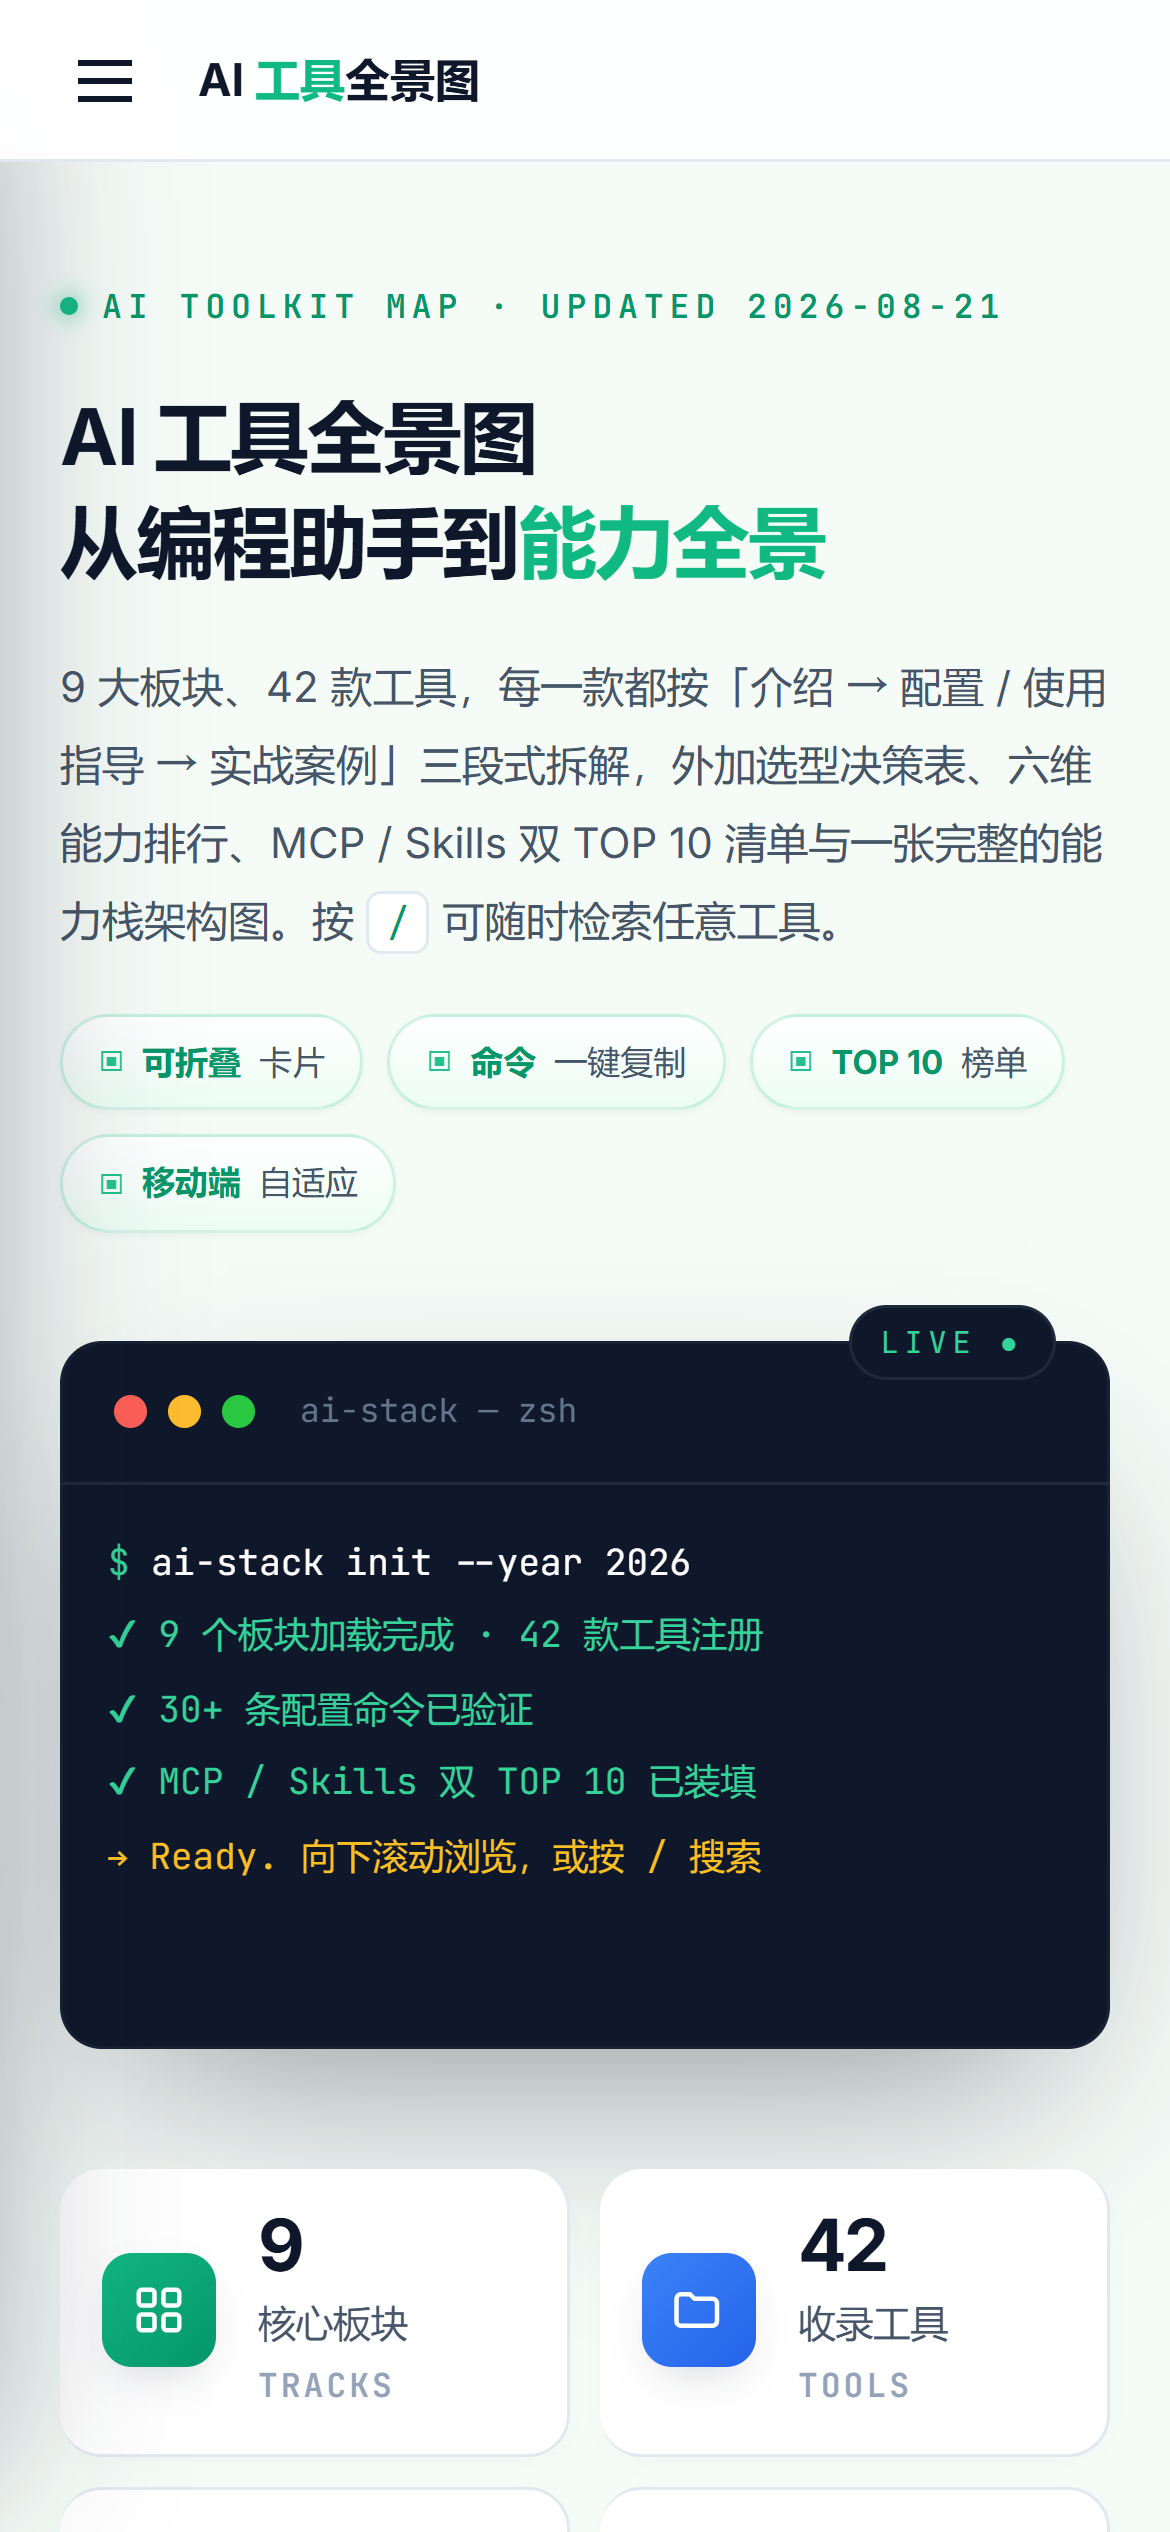
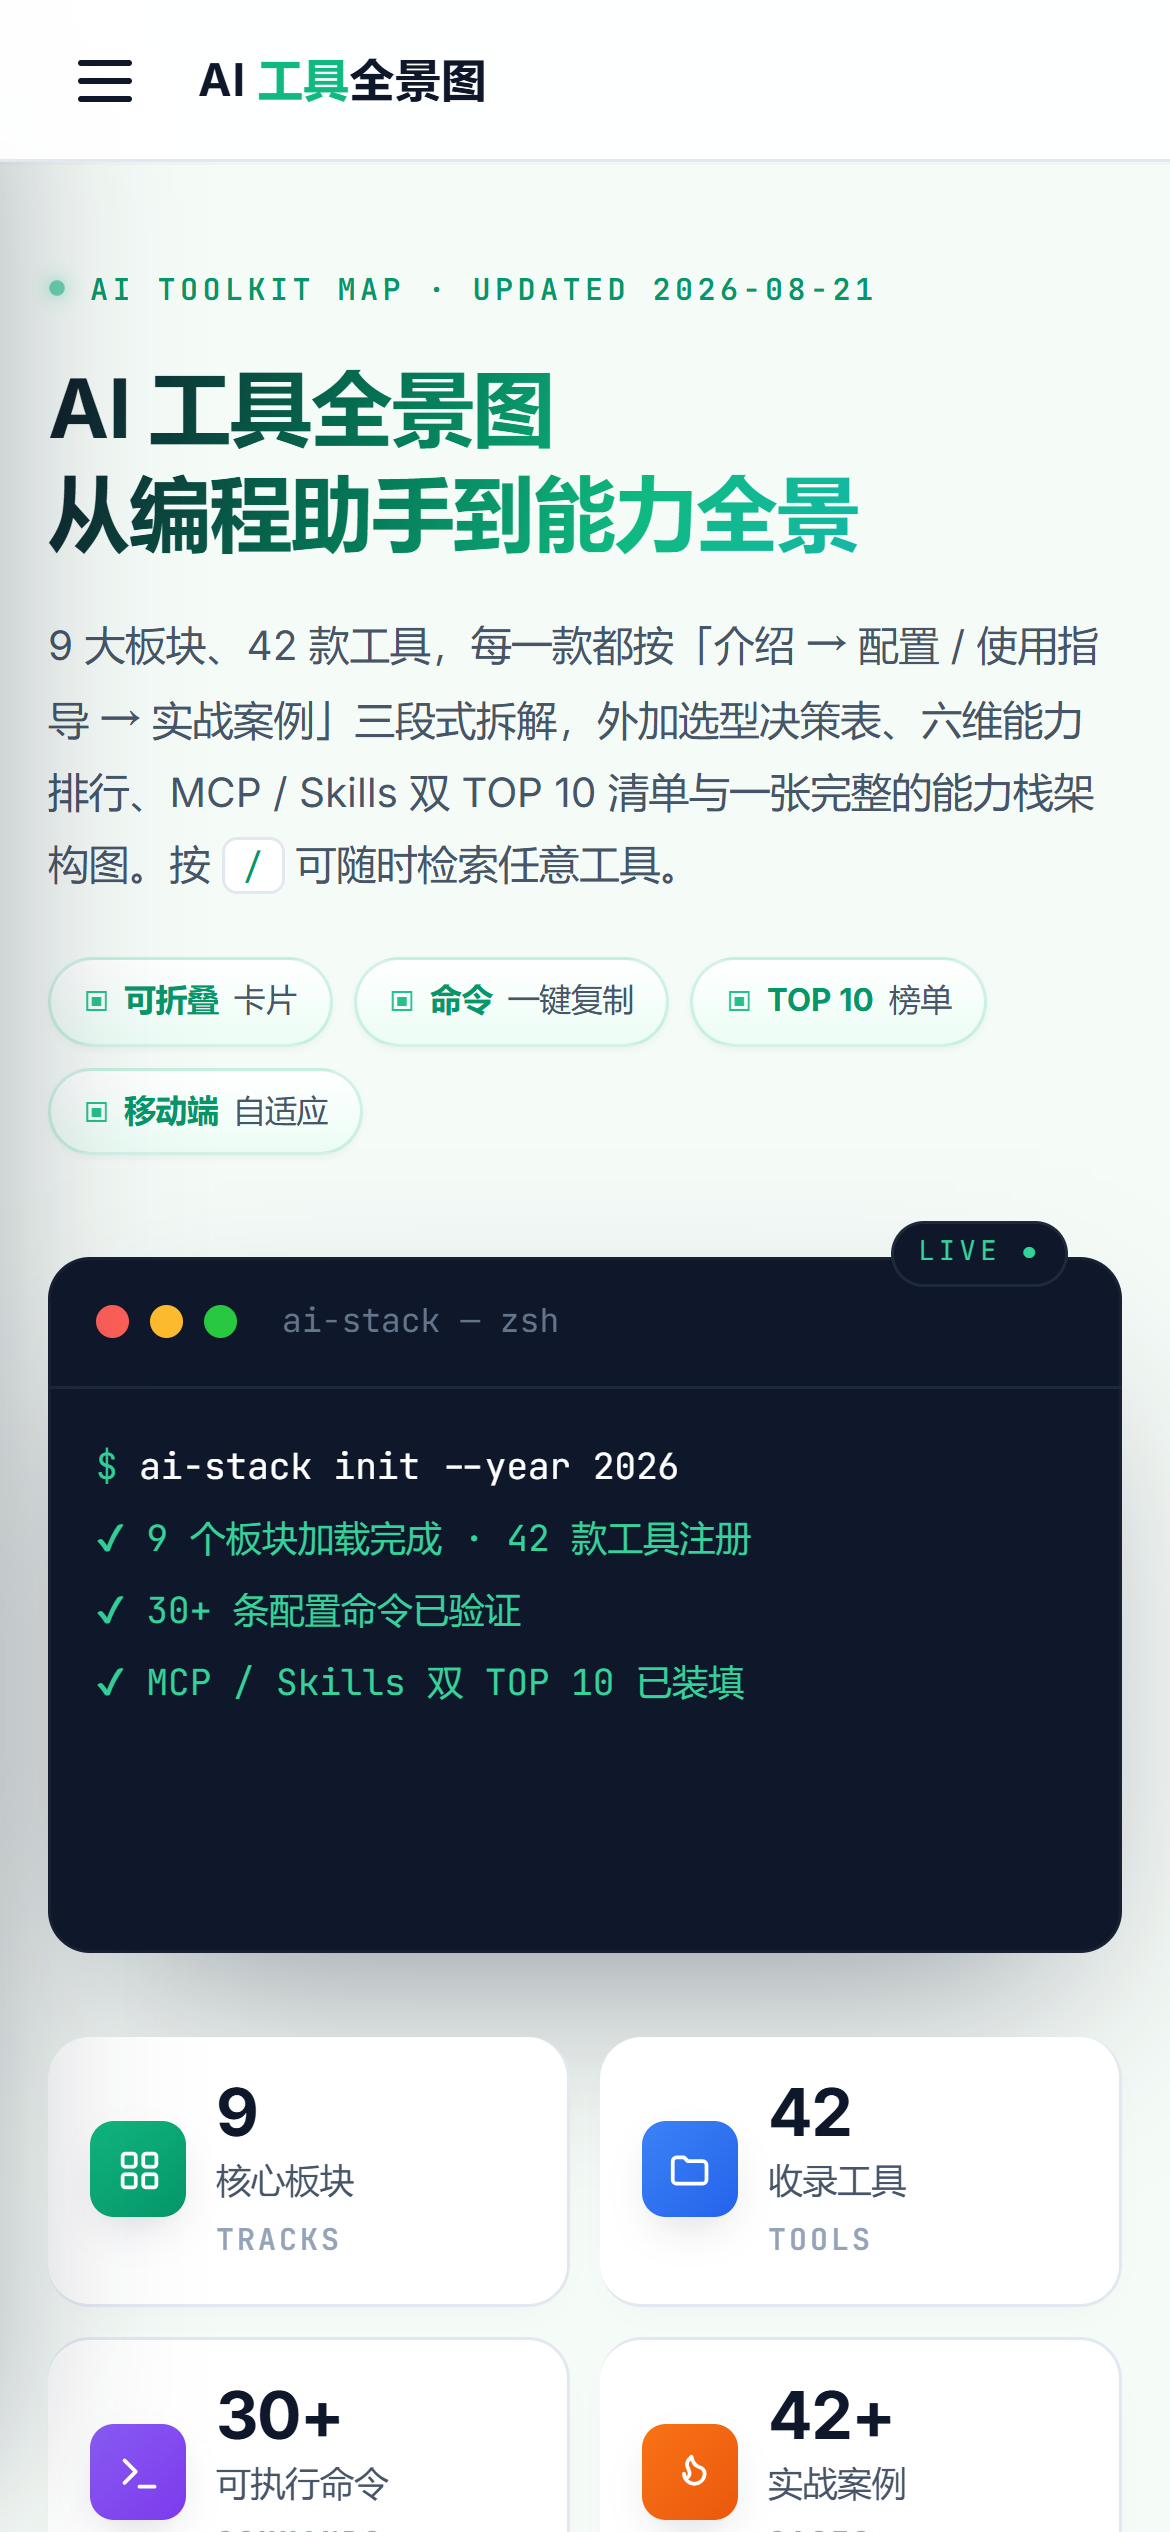
鏇存柊 README锛岃ˉ鍏?imgs 鎴浘骞朵慨姝ｆ澘鍧椾笌宸ュ叿缁熻

Changed region(s): [[0.0308, 0.0936, 0.9846, 1.0], [0.3385, 0.0, 0.4, 0.0624], [0.3077, 0.0, 0.3385, 0.0312]]

diff --git a/README.md b/README.md
@@ -1,21 +1,41 @@
 # AI 工具全景图 · AI TOOLKIT MAP
 
-从编程助手到能力全景 —— 一张覆盖 **8 大板块、30+ 款 AI 工具** 的交互式全景地图。每款工具都按「介绍 → 配置 / 使用指导 → 实战案例」三段式拆解，并附带选型决策表、六维能力排行、MCP / Skills 双 TOP 10 清单与完整的能力栈架构图。
+> **9 大板块 · 42 款 AI 工具** —— 一张从编程助手到能力栈架构的交互式全景地图。
+> 每款工具按「**介绍 → 配置 / 使用指导 → 实战案例**」三段式拆解，并附带选型决策表、六维能力排行、MCP / Skills 双 TOP 10 清单与完整的能力栈架构图。
 
-纯前端单页应用，无需构建、无需后端，双击即可打开。
+纯前端单页应用，**无需构建、无需后端**，双击 `index.html` 即可打开。
+
+![Hero · 桌面端](imgs/pc-01-hero.png)
+
+---
+
+## 界面预览
+
+### 桌面端
+
+| 首屏（Hero + 统计） | 板块 · 智能体框架 | 板块 · 图像生成（含决策表） |
+| --- | --- | --- |
+| ![PC Hero](imgs/pc-01-hero.png) | ![PC Office](imgs/pc-03-office.png) | ![PC Table](imgs/pc-04-table.png) |
+
+### 移动端
+
+| 首屏（带顶栏 + 终端面板） | 板块 · 编程助手 | 表格 · 编程助手横评 |
+| --- | --- | --- |
+| ![Mobile Hero](imgs/mob-01-hero.png) | ![Mobile Coding](imgs/mob-02-coding.png) | ![Mobile Table](imgs/mob-03-table.png) |
 
 ---
 
 ## 功能特性
 
-- 🗂 **8 大板块导航**：编程助手、办公智能体、智能体框架、图像生成、视频生成、语音处理、主流大模型、插件与生态。
-- 📖 **三段式卡片**：每款工具均含「介绍 / 配置指导 / 实战案例」，可折叠展开。
-- 🖥 **命令一键复制**：代码块与 MCP / Skills 命令点击即可复制，带复制成功反馈。
-- 🔍 **实时搜索**：按 `/` 聚焦搜索框，实时过滤工具卡片（支持工具名、命令、场景等关键词）。
-- 📊 **数据可视化**：板块级「全部展开 / 全部折叠」、数字滚动统计、六维能力排行榜、MCP / Skills 双 TOP 10。
+- 🗂 **9 大板块导航**：编程助手、办公智能体、智能体框架、图像生成、视频生成、语音处理、主流大模型、插件与生态、线上大模型服务平台。
+- 📖 **三段式卡片**：每款工具均含「**介绍 / 配置指导 / 实战案例**」，可点击展开 / 折叠。
+- 🖥 **命令一键复制**：代码块与 MCP / Skills 命令点击即可复制，带成功反馈。
+- 🔍 **实时搜索**：按 `/` 聚焦搜索框，实时过滤工具卡片（支持工具名、命令、场景等关键词），并自动展开匹配项。
+- 📊 **数据可视化**：板块级「全部展开 / 全部折叠」、数字滚动统计（9 / 42 / 30+ / 42+）、六维能力排行榜、MCP / Skills 双 TOP 10。
 - 🏗 **能力栈架构图**：L0 基础设施 → L1 模型层 → L2 协议与技能 → L3 智能体层 → L4 应用层，一览 AI 技术栈全景。
-- 📱 **移动端自适应**：响应式布局，移动端侧边栏抽屉导航。
-- 🌗 **动效与无障碍**：滚动渐入动画、阅读进度条、返回顶部按钮，支持 `prefers-reduced-motion` 减弱动画。
+- 🌗 **深色模式**：侧边栏一键切换，跟随系统主题，记忆用户偏好。
+- 📱 **移动端自适应**：响应式布局，移动端顶栏汉堡菜单 + 抽屉式侧边栏 + 右下角「返回顶部」按钮。
+- ♿ **无障碍与减弱动效**：滚动渐入、阅读进度条、`prefers-reduced-motion` 减弱动画支持。
 
 ---
 
@@ -27,15 +47,71 @@
 # 方式一：直接双击打开
 index.html
 
-# 方式二：本地静态服务器（推荐，避免浏览器安全限制）
+# 方式二：本地静态服务器（推荐，避免浏览器安全限制 / file:// 跨域）
 python -m http.server 8080
 # 然后访问 http://localhost:8080
 ```
 
 ### 技术栈
 
-- 纯原生 HTML / CSS / JavaScript，无任何外部依赖（仅 Google Fonts 字体）。
-- 数据驱动渲染：所有工具数据集中在 `<script type="application/json">` 的 `yb-data` 节点中，便于维护与二次开发。
+- 纯原生 **HTML / CSS / JavaScript**，无任何外部依赖（仅 Google Fonts）。
+- **数据驱动渲染**：所有工具数据集中在 `aihot_data.json` 中，由 `index.html` 启动时按需加载，便于维护与二次开发。
+
+---
+
+## 9 大板块速览
+
+| # | 板块 | 主题标签 | 亮点 |
+| - | --- | --- | --- |
+| 01 💻 | 编程助手 | 核心板块 | Claude Code / Cursor / Codex / Kimi K2 / Trae / Windsurf / OpenCode / CodeBuddy · 八款编程助手横向速览表 |
+| 02 🏢 | 办公智能体 | 部署指南 | WorkBuddy / Coze / Dify · 选型建议决策表 |
+| 03 🤖 | 智能体框架 | 对比选型 | OpenClaw vs Hermes · 六维对比表 + 适用场景结论 |
+| 04 🎨 | 图像生成 | 决策参考 | Midjourney / Flux / DALL-E / Ideogram / Firefly / SD · 按需求选模型决策单 |
+| 05 🎬 | 视频生成 | 参数速览 | Sora / 可灵 / Veo / Runway / 即梦 / Vidu·Pika·Luma · 参数速览表 |
+| 06 🔊 | 语音处理 | 横评推荐 | ElevenLabs / Cartesia / Hume / 火山 / CosyVoice / F5 / GPT-SoVITS / ChatTTS · 八款横评 + 组合推荐 |
+| 07 🧠 | 主流大模型 | 六维排行 | GPT-5 / Claude 4 / Gemini / Qwen 3 / DeepSeek V4 / Kimi K2 / Llama 4 · 六维能力排行榜 |
+| 08 🔌 | 插件与生态 | 生态必装 | MCP 协议 / Skills 技能 / 六大市场对比 · MCP & Skills 双 TOP 10 |
+| 09 🌐 | 线上大模型服务平台 | 平台速查 | 主流大模型 API 服务平台横向速查 |
+
+---
+
+## 顶部统计
+
+首屏实时滚动的四组数字（来自数据自动统计）：
+
+| 核心板块 | 收录工具 | 可执行命令 | 实战案例 |
+| --- | --- | --- | --- |
+| **9** | **42** | **30+** | **42+** |
+| TRACKS | TOOLS | COMMANDS | CASES |
+
+> 旁边的小型终端会以打字机效果输出 `ai-stack init --year 2026` 的初始化日志。
+
+---
+
+## 使用说明
+
+### 快捷键
+
+| 按键 | 功能 |
+| --- | --- |
+| `/` | 聚焦搜索框（移动端会同步打开侧边栏） |
+| `Esc` | 清空搜索并退出输入 |
+
+### 搜索
+
+在侧边栏搜索框输入关键词，即可实时过滤匹配的工具卡片，并显示「▸ N 个匹配结果」。支持搜索工具名称、命令、场景等任意文本；命中时卡片会自动展开。
+
+### 全部展开 / 折叠
+
+每个板块头部右上角提供「**全部展开**」「**全部折叠**」两个按钮，可一键展开或收起该板块内所有工具卡片，便于快速浏览或深度阅读。
+
+### 复制命令
+
+代码块右上角的「复制」按钮、MCP / Skills TOP 10 列表中的命令均可点击复制，按钮会短暂显示「✓」作为反馈。
+
+### 深色模式
+
+侧边栏底部「深色模式」开关可一键切换主题；选择会被记入 `localStorage`，下次访问自动应用。
 
 ---
 
@@ -57,63 +133,38 @@ git push origin        # 同时推送到 GitHub + Gitee
 
 ```
 ai-toolkit-map/
-├── index.html        # 单页应用主体（样式 + 结构 + 数据 + 脚本）
-├── aihot_data.json   # 工具数据的独立 JSON 源文件（供维护参考）
-├── README.md         # 项目说明
-└── .gitignore        # 忽略系统 / 编辑器 / 临时文件
+├── index.html         # 单页应用主体（样式 + 结构 + 脚本）
+├── aihot_data.json    # 工具数据的独立 JSON 源文件
+├── imgs/              # README 文档插图（PC / Mobile 截图）
+│   ├── pc-01-hero.png
+│   ├── pc-03-office.png
+│   ├── pc-04-table.png
+│   ├── mob-01-hero.png
+│   ├── mob-02-coding.png
+│   └── mob-03-table.png
+├── README.md          # 项目说明（即本文件）
+├── LICENSE            # MIT 协议
+└── .gitignore         # 忽略系统 / 编辑器 / 临时文件
 ```
-
----
-
-## 8 大板块速览
-
-| 板块 | 主题 | 亮点 |
-|------|------|------|
-| 01 💻 编程助手 | Claude Code / Cursor / Codex / Kimi K2 / Trae / Windsurf / OpenCode | 七款编程助手横向速览表 |
-| 02 🏢 办公智能体 | WorkBuddy / Coze / Dify | 选型建议决策表 |
-| 03 🤖 智能体框架 | OpenClaw vs Hermes | 六维对比表 + 适用场景结论 |
-| 04 🎨 图像生成 | Midjourney / Flux / DALL-E / Ideogram / Firefly / SD | 按需求选模型决策单 |
-| 05 🎬 视频生成 | Sora / 可灵 / Veo / Runway / 即梦 / Vidu·Pika·Luma | 参数速览表 |
-| 06 🔊 语音处理 | ElevenLabs / Cartesia / Hume / 火山 / CosyVoice / F5 / GPT-SoVITS / ChatTTS | 八款横评 + 组合推荐 |
-| 07 🧠 主流大模型 | GPT-5 / Claude 4 / Gemini / Qwen 3 / DeepSeek V4 / Kimi K2 / Llama 4 | 六维能力排行榜 |
-| 08 🔌 插件与生态 | MCP 协议 / Skills 技能 / 六大市场对比 | MCP & Skills 双 TOP 10 |
-
----
-
-## 使用说明
-
-### 快捷键
-
-| 按键 | 功能 |
-|------|------|
-| `/` | 聚焦搜索框 |
-| `Esc` | 清空搜索并退出 |
-
-### 搜索
-
-在侧边栏搜索框输入关键词，即可实时过滤匹配的工具卡片，并显示匹配数量。支持搜索工具名称、命令、场景等任意文本。
-
-### 全部展开 / 折叠
-
-每个板块头部提供「全部展开」「全部折叠」两个按钮，可一键展开或收起该板块内所有工具卡片，便于快速浏览或深度阅读。
 
 ---
 
 ## 数据维护
 
-所有展示数据集中于 `index.html` 内的 `yb-data` JSON 节点（与 `aihot_data.json` 内容一致，为同一数据源的两份副本）。新增 / 修改工具时：
+所有展示数据集中于 `aihot_data.json`（被 `index.html` 启动时 `fetch` 加载）。新增 / 修改工具时：
 
-1. 在对应板块的 `tools` 数组中追加对象，字段包括：`name`、`sub`、`chips`、`intro`、`config`（代码块 / 列表 / 流程图 / 标签）、`case`。
+1. 在对应板块（`sections[i]`）的 `tools` 数组中追加对象，字段包括：`name`、`sub`、`chips`、`intro`、`config`（代码块 / 列表 / 流程图 / 标签）、`case`。
 2. 可选补充 `table`（对比表）、`decide`（选型决策）、`verdict`（结论）、`rank`（排行）、`top10`（榜单）、`arch`（架构图）。
-3. 修改 `META` 对象（版本号、更新时间）以同步侧栏与页脚信息。
+3. 首页统计（板块数 / 工具数 / 命令数 / 案例数）由 `index.html` 在加载时根据数据自动计算，无需手动维护。
 
 ---
 
 ## 说明
 
 - 各工具价格为 **2026-08 参考值**，实际以官方为准。
-- 本页内容基于公开资料整理，仅供学习与选型参考。
+- 本页内容基于公开资料整理，**仅供学习与选型参考**。
 - 项目为纯前端演示页，无任何后端与数据采集逻辑。
+- 页面中涉及的各工具名称、商标与产品归属其各自所有者，本项目的引用仅作学习与选型参考。
 
 ---
 
@@ -121,8 +172,8 @@ ai-toolkit-map/
 
 本项目基于 **MIT License** 开源，详见 [LICENSE](LICENSE)。
 
-你可以自由使用、修改、分发本项目代码，仅需保留版权声明与本许可协议。页面中涉及的各工具名称、商标与产品归属其各自所有者，本项目的引用仅作学习与选型参考。
+你可以自由使用、修改、分发本项目代码，仅需保留版权声明与本许可协议。
 
 ---
 
-*AI 工具全景图 · AI TOOLKIT MAP 2026 —— Built with ♥ and a lot of tokens.*
+*AI 工具全景图 · AI TOOLKIT MAP 2026 — Built with ♥ and a lot of tokens.*
